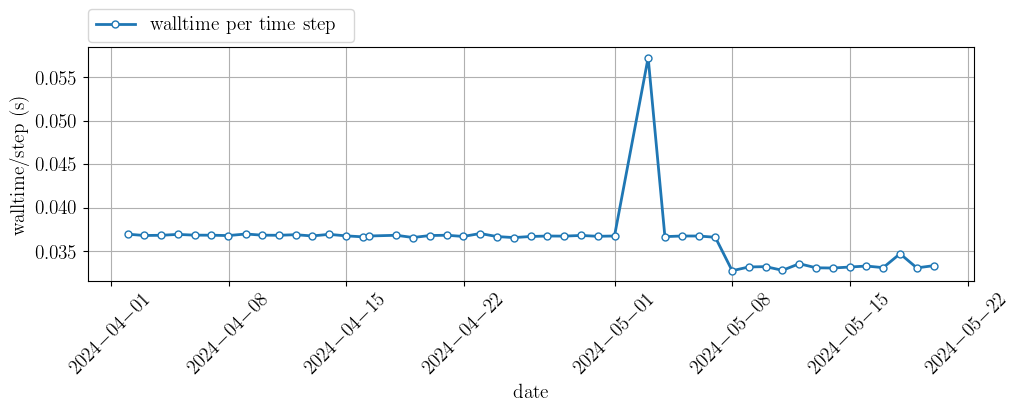
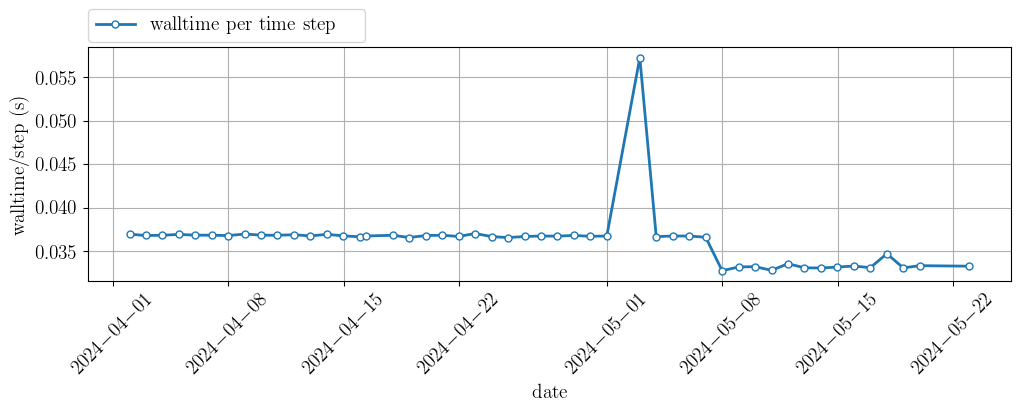
Automatic timing summary commit:

diff --git a/README.md b/README.md
@@ -1,4 +1,4 @@
-# Timing status (last ran on: 2024.05.21)
+# Timing status (last ran on: 2024.05.23)
 
 [![y3-prediction-scalability](https://github.com/illinois-ceesd/timing/actions/workflows/y3-prediction-scalability.yaml/badge.svg)](https://github.com/illinois-ceesd/timing/actions/workflows/y3-prediction-scalability.yaml) [![y2-prediction-timing](https://github.com/illinois-ceesd/timing/actions/workflows/y2-prediction-timing.yaml/badge.svg)](https://github.com/illinois-ceesd/timing/actions/workflows/y2-prediction-timing.yaml) [![isolator-timing](https://github.com/illinois-ceesd/timing/actions/workflows/isolator-timing.yaml/badge.svg)](https://github.com/illinois-ceesd/timing/actions/workflows/isolator-timing.yaml) [![flame1d-timing](https://github.com/illinois-ceesd/timing/actions/workflows/flame1d-timing.yaml/badge.svg)](https://github.com/illinois-ceesd/timing/actions/workflows/flame1d-timing.yaml) [![nozzle-timing](https://github.com/illinois-ceesd/timing/actions/workflows/nozzle-timing.yaml/badge.svg)](https://github.com/illinois-ceesd/timing/actions/workflows/nozzle-timing.yaml)
 
